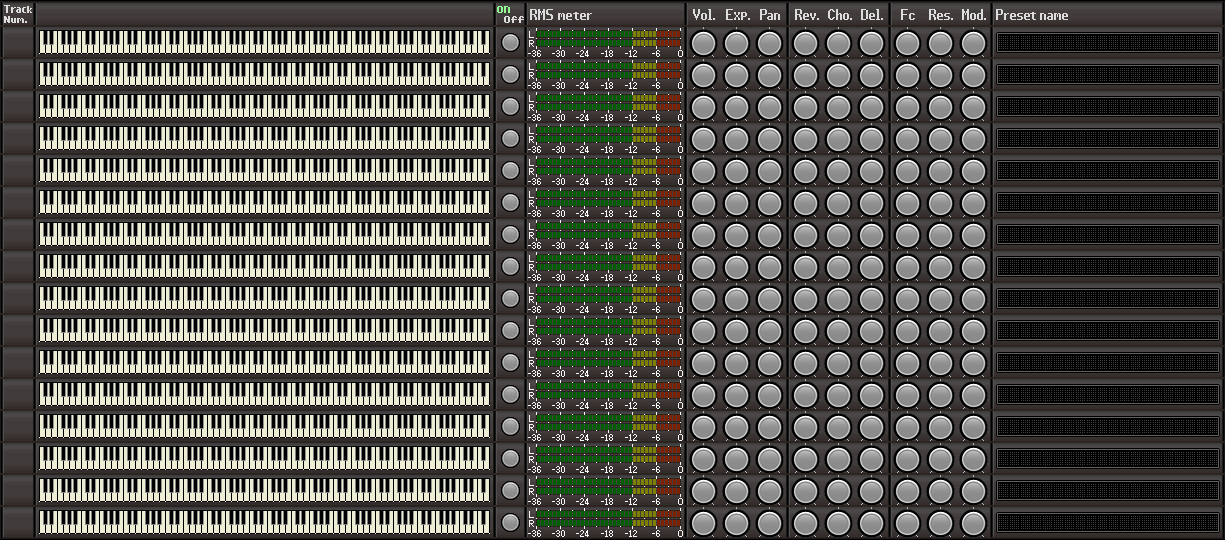
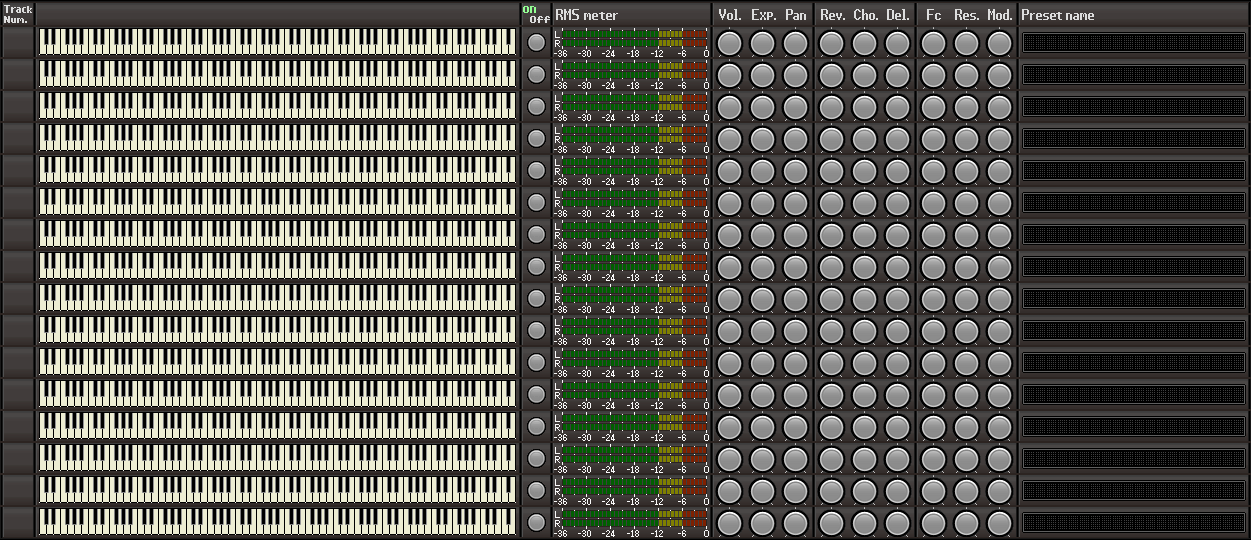
更新

diff --git a/EasySequencer/Monitor.cs b/EasySequencer/Monitor.cs
@@ -46,49 +46,49 @@ namespace EasySequencer {
         const double RMS_MAX = 0.0;
 
         static readonly Bitmap[,] BMP_FONT = new Bitmap[16, 6];
-        static readonly Rectangle RECT_ON_OFF = new Rectangle(501, 33, 28, 30);
-        static readonly Rectangle RECT_METER_L = new Rectangle(537, 31, 144, 6);
-        static readonly Rectangle RECT_METER_R = new Rectangle(537, 40, 144, 6);
+        static readonly Rectangle RECT_ON_OFF = new Rectangle(527, 33, 28, 30);
+        static readonly Rectangle RECT_METER_L = new Rectangle(563, 31, 144, 6);
+        static readonly Rectangle RECT_METER_R = new Rectangle(563, 40, 144, 6);
         static readonly Size SIZE_METER_CELL = new Size(4, 6);
-        static readonly Rectangle RECT_PRESET_NAME = new Rectangle(999, 36, 219, 13);
+        static readonly Rectangle RECT_PRESET_NAME = new Rectangle(1025, 36, 219, 13);
 
         static readonly Rectangle[] RECT_KEYS = {
-            new Rectangle(40, 44, 5, 9),  // C
-            new Rectangle(43, 31, 5, 14), // Db
-            new Rectangle(46, 44, 5, 9),  // D
-            new Rectangle(49, 31, 5, 14), // Eb
-            new Rectangle(52, 44, 5, 9),  // E
-            new Rectangle(58, 44, 5, 9),  // F
-            new Rectangle(61, 31, 5, 14), // Gb
-            new Rectangle(64, 44, 5, 9),  // G
-            new Rectangle(67, 31, 5, 14), // Ab
-            new Rectangle(70, 44, 5, 9),  // A
-            new Rectangle(73, 31, 5, 14), // Bb
-            new Rectangle(76, 44, 5, 9)   // B
+            new Rectangle(40, 44, 6, 10), // C
+            new Rectangle(44, 29, 5, 16), // Db
+            new Rectangle(47, 44, 6, 10), // D
+            new Rectangle(51, 29, 5, 16), // Eb
+            new Rectangle(54, 44, 6, 10), // E
+            new Rectangle(61, 44, 6, 10), // F
+            new Rectangle(65, 29, 5, 16), // Gb
+            new Rectangle(68, 44, 6, 10), // G
+            new Rectangle(72, 29, 5, 16), // Ab
+            new Rectangle(75, 44, 6, 10), // A
+            new Rectangle(79, 29, 5, 16), // Bb
+            new Rectangle(82, 44, 6, 10)  // B
         };
 
         static readonly Point[] POS_KNOBS = {
-            new Point(703, 43), // Vol.
-            new Point(736, 43), // Exp.
-            new Point(769, 43), // Pan
-            new Point(805, 43), // Rev.
-            new Point(838, 43), // Cho.
-            new Point(871, 43), // Del.
-            new Point(907, 43), // Fc
-            new Point(940, 43), // Res.
-            new Point(973, 43)  // Mod.
+            new Point(729, 43), // Vol.
+            new Point(762, 43), // Exp.
+            new Point(795, 43), // Pan
+            new Point(831, 43), // Rev.
+            new Point(864, 43), // Cho.
+            new Point(897, 43), // Del.
+            new Point(933, 43), // Fc
+            new Point(966, 43), // Res.
+            new Point(999, 43)  // Mod.
         };
 
         static readonly Point[] POS_KNOB_VALS = {
-            new Point(694, 38), // Vol.
-            new Point(727, 38), // Exp.
-            new Point(760, 38), // Pan
-            new Point(796, 38), // Rev.
-            new Point(829, 38), // Cho.
-            new Point(862, 38), // Del.
-            new Point(898, 38), // Fc
-            new Point(931, 38), // Res.
-            new Point(964, 38)  // Mod.
+            new Point(720, 38), // Vol.
+            new Point(753, 38), // Exp.
+            new Point(786, 38), // Pan
+            new Point(822, 38), // Rev.
+            new Point(855, 38), // Cho.
+            new Point(888, 38), // Del.
+            new Point(924, 38), // Fc
+            new Point(957, 38), // Res.
+            new Point(990, 38)  // Mod.
         };
 
         static readonly PointF[] POS_KNOB_ROT = {
@@ -268,7 +268,7 @@ namespace EasySequencer {
                 var transpose = (int)(channel.pitch * channel.bend_range / 8192.0 - 0.5);
                 for (var n = 0; n < 128; ++n) {
                     var k = n + transpose;
-                    if (k < 0 || 127 < k) {
+                    if (k < 12 || 127 < k) {
                         continue;
                     }
                     var key = RECT_KEYS[k % 12];
